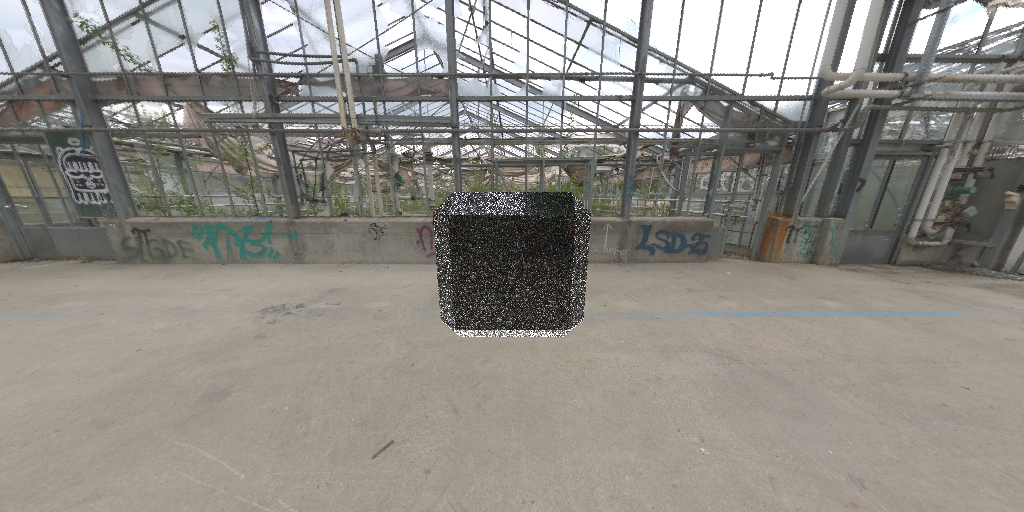
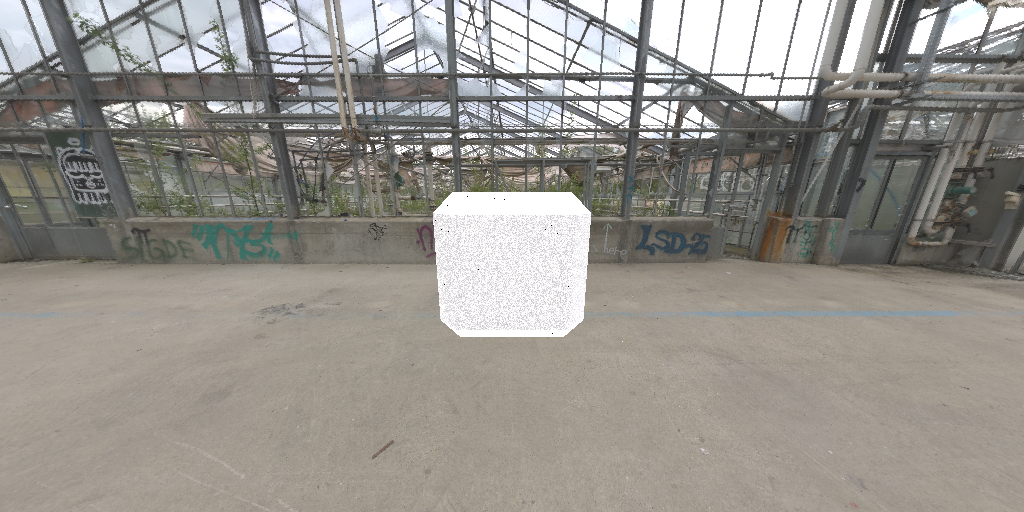
.

Changed region(s): [[0.4062, 0.375, 0.5938, 0.6562]]

diff --git a/src/material.rs b/src/material.rs
@@ -127,33 +127,47 @@ impl GltfMaterial {
         2.0 / (1.0 + temp.sqrt())
     }
 
-    fn fresnel(i: &Vector3<f32>, m: &Vector3<f32>) -> f32 {
+    fn fresnel_dielectric(i: &Vector3<f32>, m: &Vector3<f32>) -> f32 {
         const R0: f32 = 0.04;
         R0 + (1.0 - R0) * (1.0 - i.dot(m)).powi(5)
     }
 
+    fn fresnel_conductor(i: &Vector3<f32>, m: &Vector3<f32>, f0: &Vector3<f32>) -> Vector3<f32> {
+        f0 + (Vector3::from_element(1.0) - f0) * (1.0 - i.dot(m)).powi(5)
+    }
+
+
     fn shadowing(alpha2: f32, i: &Vector3<f32>, o: &Vector3<f32>, m: &Vector3<f32>) -> f32 {
         Self::one_way_shadowing(alpha2, i, m) * Self::one_way_shadowing(alpha2, o, m)
     }
+
 }
 
 
 impl Material for GltfMaterial {
 
     fn brdf(&self, uv: &Point2<f32>, i: &Vector3<f32>, o: &Vector3<f32>) -> Vector3<f32> {
-        let (_metal, rough) = self.metal_rough_at(uv);
+        let base_color = self.base_color_at(uv);
+        let (metal, rough) = self.metal_rough_at(uv);
         let alpha = rough * rough;
         let alpha2 = alpha * alpha;
+
+        let diffuse = base_color * FRAC_1_PI;
 
         let m = (i + o).normalize();
 
         let d = Self::facet_density(alpha2, &m);
-        let f = Self::fresnel(i, &m);
         let g = Self::shadowing(alpha2, i, o, &m);
 
-        let brdf = (d * g * f) / (4.0 * i.z * o.z);
+        let specular = (d * g) / (4.0 * i.z * o.z);
+        
+        let f_dielectric = Self::fresnel_dielectric(i, &m);
+        let f_conductor = Self::fresnel_conductor(i, &m, &base_color);
 
-        Vector3::from_element(brdf)
+        let dielectric_brdf = f_dielectric * Vector3::from_element(specular) + (1.0 - f_dielectric) * diffuse;
+        let metallic_brdf = specular * f_conductor;
+        
+        metal * metallic_brdf + (1.0 - metal) * dielectric_brdf
     }
 
     fn sample_brdf(&self, uv: &Point2<f32>, o: &Vector3<f32>) -> BrdfSample {
